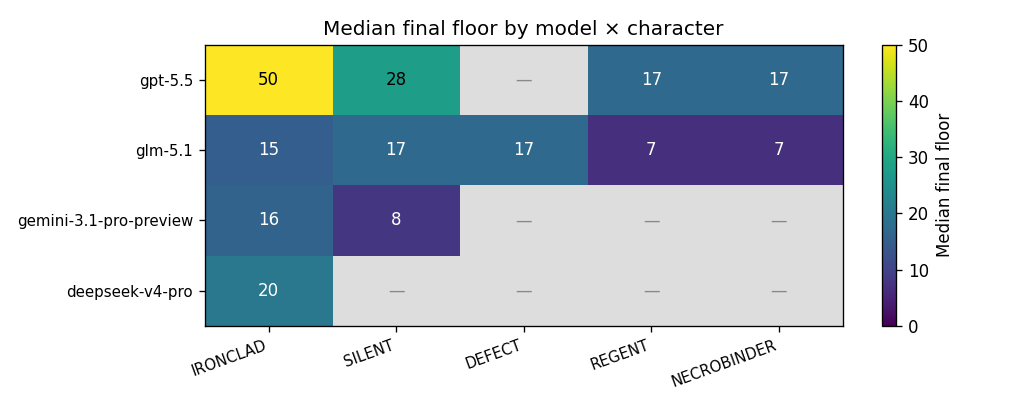
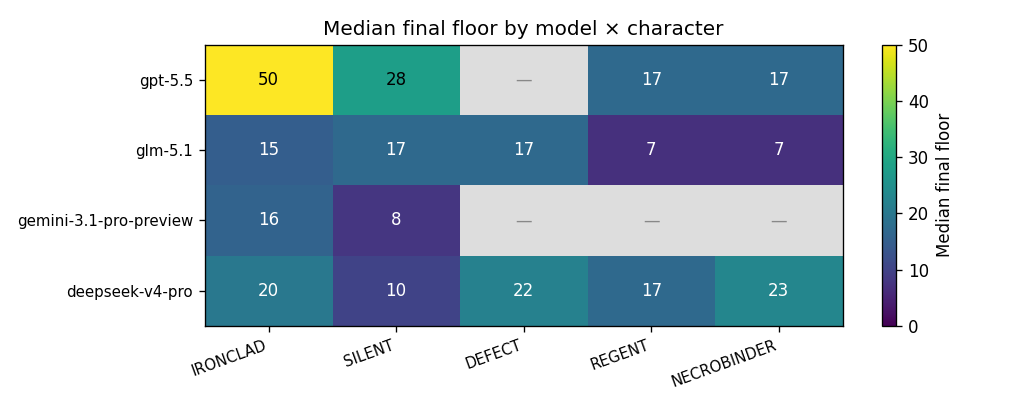
docs/benchmark/trial-v0-summary: regenerate from updated runs.csv
Re-runs spirebench-summary.py output against the now-18-row runs.csv. Updates: total runs 14\u219218, deaths 12\u219215, stalls 2\u21923, deepseek-v4-pro row expanded to 5 runs (median floor 20.00, max 23.00, mean cost \.57), per-character medians refreshed (DEFECT 19.50, NECROBINDER 17.00, REGENT 17.00, SILENT 13.50).

Charts regenerated against the same dataset: character_difficulty, death_heatmap, floor_reach_distribution, gold_deck_growth, hp_curve_overlay, tokens_cost_per_floor.

Changed region(s): [[0.3039, 0.6176, 0.851, 0.8235]]

diff --git a/docs/benchmark/trial-v0-summary.md b/docs/benchmark/trial-v0-summary.md
@@ -5,8 +5,8 @@ re-run the script after appending new runs to `runs.csv`._
 
 ## Overview
 
-- Total runs: **14** (with run records: 14)
-- Halt reasons: death=12, stall=2
+- Total runs: **18** (with run records: 18)
+- Halt reasons: death=15, stall=3
 - Models tested: deepseek-v4-pro, gemini-3.1-pro-preview, glm-5.1, gpt-5.5
 - Characters: DEFECT, IRONCLAD, NECROBINDER, REGENT, SILENT
 
@@ -15,7 +15,7 @@ re-run the script after appending new runs to `runs.csv`._
 | model | runs | victories | deaths | rate_limits | median_floor | max_floor | mean_tokens_total | mean_cost_usd | mean_wall_seconds |
 | --- | --- | --- | --- | --- | --- | --- | --- | --- | --- |
 | gpt-5.5 | 5 | 0 | 4 | 0 | 22.50 | 50.00 | 134052550 | 0.00 | 46834 |
-| deepseek-v4-pro | 1 | 0 | 1 | 0 | 20.00 | 20.00 | 120785500 | 18.34 | 4696 |
+| deepseek-v4-pro | 5 | 0 | 4 | 0 | 20.00 | 23.00 | 94419575 | 14.57 | 4751 |
 | glm-5.1 | 5 | 0 | 5 | 0 | 15.00 | 17.00 | 31671320 | 0.00 | 6181 |
 | gemini-3.1-pro-preview | 3 | 0 | 2 | 0 | 12.00 | 16.00 | 19031863 | 0.00 | 3644 |
 
@@ -25,10 +25,10 @@ re-run the script after appending new runs to `runs.csv`._
 | character | runs | victories | median_floor | max_floor |
 | --- | --- | --- | --- | --- |
 | IRONCLAD | 4 | 0 | 18.00 | 50.00 |
-| SILENT | 3 | 0 | 17.00 | 28.00 |
-| DEFECT | 2 | 0 | 17.00 | 17.00 |
-| REGENT | 3 | 0 | 12.00 | 17.00 |
-| NECROBINDER | 2 | 0 | 12.00 | 17.00 |
+| SILENT | 4 | 0 | 13.50 | 28.00 |
+| DEFECT | 3 | 0 | 19.50 | 22.00 |
+| REGENT | 4 | 0 | 17.00 | 17.00 |
+| NECROBINDER | 3 | 0 | 17.00 | 23.00 |
 
 
 ## Charts
